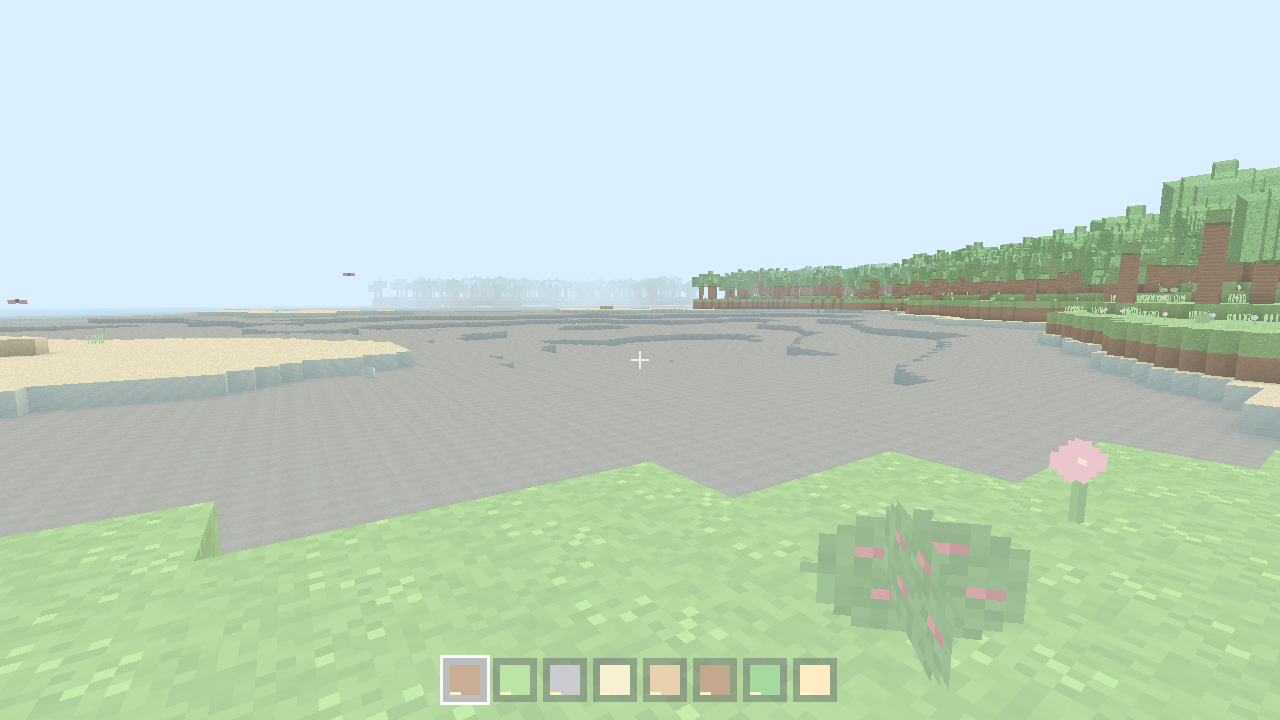
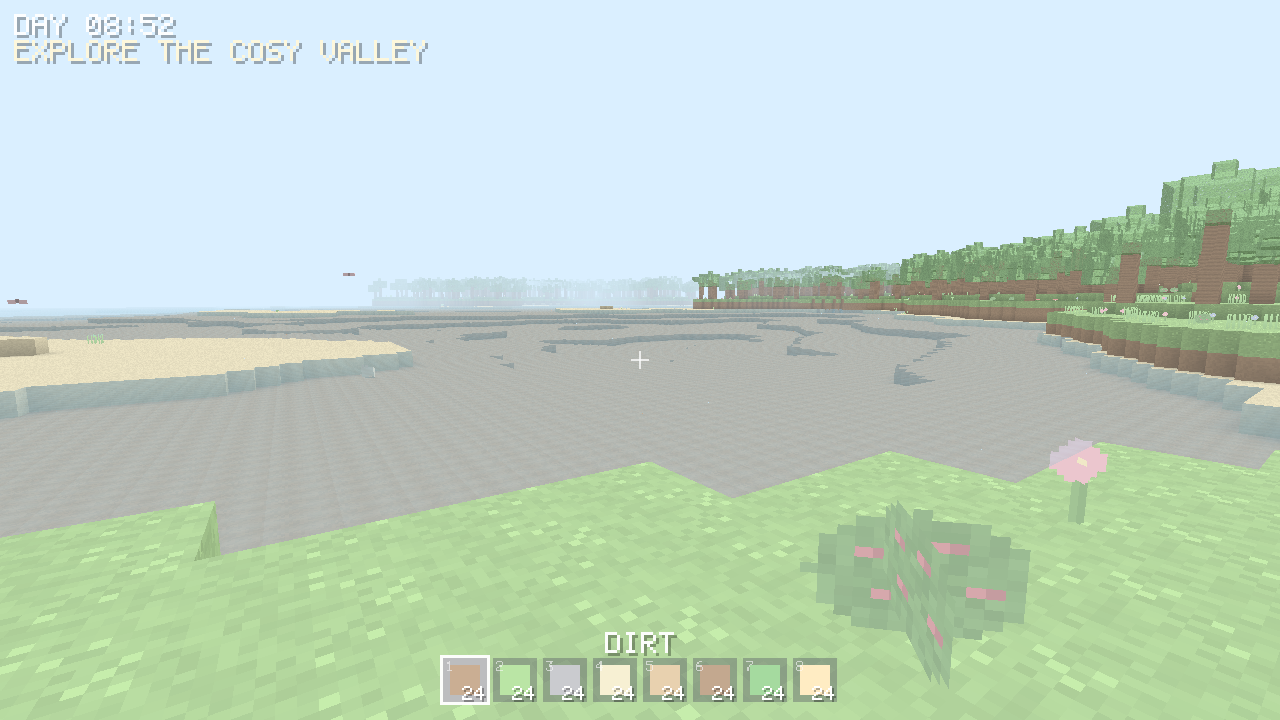
Stage 12: bitmap font + HUD text
- Compact 5x7 bitmap font (A-Z, 0-9, punctuation) rendered as UI quads with a
  drop-shadow for legibility.
- HUD now shows a day/night clock, an objective banner, the selected block name
  above the hotbar, per-slot held counts and slot-number hints, via a HudState
  struct passed to the renderer. Wired through window + screenshot paths.

diff --git a/crates/game/src/render/ui.rs b/crates/game/src/render/ui.rs
@@ -42,17 +42,55 @@ impl UiBuilder {
             self.verts.push(UiVertex { pos: p, color });
         }
     }
+
+    /// Draw `text` with the bitmap font; top-left at (x,y), one source pixel =
+    /// `scale` screen pixels.
+    fn text(&mut self, x: f32, y: f32, scale: f32, text: &str, color: [f32; 4]) {
+        let mut cx = x;
+        for ch in text.chars() {
+            if let Some(bits) = super::font::glyph(ch) {
+                for (row, bitmask) in bits.iter().enumerate() {
+                    for col in 0..super::font::GLYPH_W {
+                        if bitmask & (1 << (super::font::GLYPH_W - 1 - col)) != 0 {
+                            self.rect(
+                                cx + col as f32 * scale,
+                                y + row as f32 * scale,
+                                scale,
+                                scale,
+                                color,
+                            );
+                        }
+                    }
+                }
+            }
+            cx += (super::font::GLYPH_W as f32 + 1.0) * scale;
+        }
+    }
+
+    /// Draw text with a 1px dark drop-shadow for legibility over any backdrop.
+    fn text_shadow(&mut self, x: f32, y: f32, scale: f32, s: &str, color: [f32; 4]) {
+        self.text(x + scale, y + scale, scale, s, [0.0, 0.0, 0.0, 0.55]);
+        self.text(x, y, scale, s, color);
+    }
+}
+
+/// Everything the HUD needs for a frame.
+pub struct HudState<'a> {
+    pub inventory: &'a Inventory,
+    pub registry: &'a BlockRegistry,
+    /// Time of day in `[0,1)` (0 = dawn, 0.25 = noon).
+    pub time_of_day: f32,
+    /// Optional quest objective line and its progress (done, total).
+    pub objective: Option<String>,
+    pub objective_progress: Option<(u32, u32)>,
 }
 
 /// Build the full HUD for the current frame.
-pub fn build_hud(
-    screen_w: u32,
-    screen_h: u32,
-    inventory: &Inventory,
-    registry: &BlockRegistry,
-) -> Vec<UiVertex> {
+pub fn build_hud(screen_w: u32, screen_h: u32, state: &HudState) -> Vec<UiVertex> {
     let mut b = UiBuilder::new(screen_w, screen_h);
     let (w, h) = (b.w, b.h);
+    let inventory = state.inventory;
+    let registry = state.registry;
 
     // --- Crosshair: a soft white plus at the screen centre ---------------
     let cx = w * 0.5;
@@ -62,6 +100,25 @@ pub fn build_hud(
     let cross = [1.0, 1.0, 1.0, 0.7];
     b.rect(cx - arm, cy - thick * 0.5, arm * 2.0, thick, cross);
     b.rect(cx - thick * 0.5, cy - arm, thick, arm * 2.0, cross);
+
+    // --- Top-left clock --------------------------------------------------
+    // Map the cycle to a friendly 24h clock (dawn ≈ 06:00, noon = 12:00).
+    let hours_f = (state.time_of_day * 24.0 + 6.0) % 24.0;
+    let hh = hours_f as u32;
+    let mm = ((hours_f - hh as f32) * 60.0) as u32;
+    let clock = format!("{hh:02}:{mm:02}");
+    let tag = if (6..20).contains(&hh) { "DAY" } else { "NIGHT" };
+    b.text_shadow(14.0, 14.0, 3.0, &format!("{tag} {clock}"), [1.0, 1.0, 1.0, 0.95]);
+
+    // --- Objective banner ------------------------------------------------
+    if let Some(obj) = &state.objective {
+        let line = if let Some((done, total)) = state.objective_progress {
+            format!("{obj}  {done}/{total}")
+        } else {
+            obj.clone()
+        };
+        b.text_shadow(14.0, 40.0, 3.0, &line, [1.0, 0.93, 0.7, 0.95]);
+    }
 
     // --- Hotbar: a centred row of slots near the bottom ------------------
     let slots = HOTBAR.len();
@@ -75,7 +132,6 @@ pub fn build_hud(
         let sx = start_x + i as f32 * (slot + gap);
         let selected = i == inventory.selected;
 
-        // Slot backing (selected slot gets a bright frame).
         if selected {
             b.rect(sx - 3.0, y - 3.0, slot + 6.0, slot + 6.0, [1.0, 1.0, 1.0, 0.95]);
         }
@@ -83,29 +139,27 @@ pub fn build_hud(
 
         // Block colour swatch inset in the slot.
         let c = registry.get(id).color;
-        let swatch = [
-            c.r as f32 / 255.0,
-            c.g as f32 / 255.0,
-            c.b as f32 / 255.0,
-            1.0,
-        ];
+        let swatch = [c.r as f32 / 255.0, c.g as f32 / 255.0, c.b as f32 / 255.0, 1.0];
         let pad = 7.0;
         b.rect(sx + pad, y + pad, slot - pad * 2.0, slot - pad * 2.0, swatch);
 
-        // Count pips: a tiny bar whose width reflects how many are held
-        // (cheap stand-in for a number until text rendering lands).
-        let count = inventory.count(id).min(64);
+        // Held count, bottom-right of the slot.
+        let count = inventory.count(id);
         if count > 0 {
-            let frac = count as f32 / 64.0;
-            b.rect(
-                sx + pad,
-                y + slot - pad - 3.0,
-                (slot - pad * 2.0) * frac,
-                3.0,
-                [1.0, 0.95, 0.6, 0.9],
-            );
+            let s = count.to_string();
+            let scale = 2.0;
+            let tw = super::font::text_width(&s, scale);
+            b.text_shadow(sx + slot - tw - 3.0, y + slot - 7.0 * scale - 2.0, scale, &s, [1.0; 4]);
         }
+        // Slot number key hint, top-left.
+        b.text(sx + 3.0, y + 3.0, 1.5, &(i + 1).to_string(), [1.0, 1.0, 1.0, 0.5]);
     }
+
+    // --- Selected block name, centred above the hotbar -------------------
+    let name = registry.get(inventory.selected_block()).name.replace('_', " ");
+    let scale = 3.0;
+    let tw = super::font::text_width(&name, scale);
+    b.text_shadow((w - tw) * 0.5, y - 26.0, scale, &name, [1.0, 1.0, 1.0, 0.95]);
 
     b.verts
 }
@@ -120,7 +174,14 @@ mod tests {
         let mut inv = Inventory::new(reg.len());
         inv.add(HOTBAR[0], 32);
         inv.select(2);
-        let verts = build_hud(1280, 720, &inv, &reg);
+        let state = HudState {
+            inventory: &inv,
+            registry: &reg,
+            time_of_day: 0.25,
+            objective: Some("COLLECT BERRIES".to_string()),
+            objective_progress: Some((2, 5)),
+        };
+        let verts = build_hud(1280, 720, &state);
         assert!(!verts.is_empty());
         assert_eq!(verts.len() % 6, 0, "quads must be 2 triangles (6 verts) each");
         // All NDC positions stay within the clip volume.

diff --git a/crates/game/src/render/font.rs b/crates/game/src/render/font.rs
@@ -1,0 +1,74 @@
+//! A tiny 5×7 bitmap font rendered as solid UI quads. Enough for HUD counts,
+//! a clock, block names and quest objectives. Each glyph is seven rows; the low
+//! five bits of each row are the pixels (bit 4 = leftmost).
+
+/// Glyph width/height in source pixels.
+pub const GLYPH_W: u32 = 5;
+pub const GLYPH_H: u32 = 7;
+
+/// Look up a glyph bitmap for a character (uppercased). Returns `None` for
+/// unknown characters (caller renders a blank advance).
+pub fn glyph(ch: char) -> Option<[u8; 7]> {
+    let c = ch.to_ascii_uppercase();
+    Some(match c {
+        ' ' => [0; 7],
+        'A' => [0b01110, 0b10001, 0b10001, 0b11111, 0b10001, 0b10001, 0b10001],
+        'B' => [0b11110, 0b10001, 0b11110, 0b10001, 0b10001, 0b10001, 0b11110],
+        'C' => [0b01110, 0b10001, 0b10000, 0b10000, 0b10000, 0b10001, 0b01110],
+        'D' => [0b11110, 0b10001, 0b10001, 0b10001, 0b10001, 0b10001, 0b11110],
+        'E' => [0b11111, 0b10000, 0b11110, 0b10000, 0b10000, 0b10000, 0b11111],
+        'F' => [0b11111, 0b10000, 0b11110, 0b10000, 0b10000, 0b10000, 0b10000],
+        'G' => [0b01110, 0b10001, 0b10000, 0b10111, 0b10001, 0b10001, 0b01110],
+        'H' => [0b10001, 0b10001, 0b11111, 0b10001, 0b10001, 0b10001, 0b10001],
+        'I' => [0b01110, 0b00100, 0b00100, 0b00100, 0b00100, 0b00100, 0b01110],
+        'J' => [0b00111, 0b00010, 0b00010, 0b00010, 0b10010, 0b10010, 0b01100],
+        'K' => [0b10001, 0b10010, 0b10100, 0b11000, 0b10100, 0b10010, 0b10001],
+        'L' => [0b10000, 0b10000, 0b10000, 0b10000, 0b10000, 0b10000, 0b11111],
+        'M' => [0b10001, 0b11011, 0b10101, 0b10101, 0b10001, 0b10001, 0b10001],
+        'N' => [0b10001, 0b11001, 0b10101, 0b10011, 0b10001, 0b10001, 0b10001],
+        'O' => [0b01110, 0b10001, 0b10001, 0b10001, 0b10001, 0b10001, 0b01110],
+        'P' => [0b11110, 0b10001, 0b10001, 0b11110, 0b10000, 0b10000, 0b10000],
+        'Q' => [0b01110, 0b10001, 0b10001, 0b10001, 0b10101, 0b10010, 0b01101],
+        'R' => [0b11110, 0b10001, 0b10001, 0b11110, 0b10100, 0b10010, 0b10001],
+        'S' => [0b01111, 0b10000, 0b10000, 0b01110, 0b00001, 0b00001, 0b11110],
+        'T' => [0b11111, 0b00100, 0b00100, 0b00100, 0b00100, 0b00100, 0b00100],
+        'U' => [0b10001, 0b10001, 0b10001, 0b10001, 0b10001, 0b10001, 0b01110],
+        'V' => [0b10001, 0b10001, 0b10001, 0b10001, 0b10001, 0b01010, 0b00100],
+        'W' => [0b10001, 0b10001, 0b10001, 0b10101, 0b10101, 0b11011, 0b10001],
+        'X' => [0b10001, 0b10001, 0b01010, 0b00100, 0b01010, 0b10001, 0b10001],
+        'Y' => [0b10001, 0b10001, 0b01010, 0b00100, 0b00100, 0b00100, 0b00100],
+        'Z' => [0b11111, 0b00001, 0b00010, 0b00100, 0b01000, 0b10000, 0b11111],
+        '0' => [0b01110, 0b10011, 0b10101, 0b10101, 0b11001, 0b10001, 0b01110],
+        '1' => [0b00100, 0b01100, 0b00100, 0b00100, 0b00100, 0b00100, 0b01110],
+        '2' => [0b01110, 0b10001, 0b00001, 0b00110, 0b01000, 0b10000, 0b11111],
+        '3' => [0b11111, 0b00010, 0b00100, 0b00110, 0b00001, 0b10001, 0b01110],
+        '4' => [0b00010, 0b00110, 0b01010, 0b10010, 0b11111, 0b00010, 0b00010],
+        '5' => [0b11111, 0b10000, 0b11110, 0b00001, 0b00001, 0b10001, 0b01110],
+        '6' => [0b00110, 0b01000, 0b10000, 0b11110, 0b10001, 0b10001, 0b01110],
+        '7' => [0b11111, 0b00001, 0b00010, 0b00100, 0b01000, 0b01000, 0b01000],
+        '8' => [0b01110, 0b10001, 0b10001, 0b01110, 0b10001, 0b10001, 0b01110],
+        '9' => [0b01110, 0b10001, 0b10001, 0b01111, 0b00001, 0b00010, 0b01100],
+        ':' => [0b00000, 0b00100, 0b00100, 0b00000, 0b00100, 0b00100, 0b00000],
+        '.' => [0b00000, 0b00000, 0b00000, 0b00000, 0b00000, 0b00110, 0b00110],
+        ',' => [0b00000, 0b00000, 0b00000, 0b00000, 0b00110, 0b00110, 0b01000],
+        '/' => [0b00001, 0b00010, 0b00100, 0b00100, 0b01000, 0b10000, 0b10000],
+        '-' => [0b00000, 0b00000, 0b00000, 0b11111, 0b00000, 0b00000, 0b00000],
+        '!' => [0b00100, 0b00100, 0b00100, 0b00100, 0b00100, 0b00000, 0b00100],
+        '?' => [0b01110, 0b10001, 0b00010, 0b00100, 0b00100, 0b00000, 0b00100],
+        '%' => [0b11001, 0b11010, 0b00100, 0b01000, 0b10110, 0b10011, 0b00000],
+        '+' => [0b00000, 0b00100, 0b00100, 0b11111, 0b00100, 0b00100, 0b00000],
+        '*' => [0b00000, 0b10101, 0b01110, 0b11111, 0b01110, 0b10101, 0b00000],
+        _ => return None,
+    })
+}
+
+/// Pixel width of `text` at the given pixel scale (1 source px → `scale` px),
+/// including 1-pixel inter-glyph spacing.
+pub fn text_width(text: &str, scale: f32) -> f32 {
+    let glyphs = text.chars().count() as f32;
+    if glyphs == 0.0 {
+        0.0
+    } else {
+        (glyphs * (GLYPH_W as f32 + 1.0) - 1.0) * scale
+    }
+}

diff --git a/crates/game/src/render/app.rs b/crates/game/src/render/app.rs
@@ -229,8 +229,14 @@ impl State {
         // Push fresh/edited chunk meshes and the ambient critters to the GPU.
         self.renderer.sync_meshes(&self.game.manager);
         self.renderer.update_entities(&self.game.entities);
-        self.renderer
-            .update_hud(&self.game.inventory, &self.game.manager.registry);
+        let hud = super::HudState {
+            inventory: &self.game.inventory,
+            registry: &self.game.manager.registry,
+            time_of_day: self.game.environment.time_of_day,
+            objective: None,
+            objective_progress: None,
+        };
+        self.renderer.update_hud(&hud);
 
         // Camera follows the eye.
         let camera = Camera::new(eye, look, self.renderer.aspect());

diff --git a/crates/game/src/render/window.rs b/crates/game/src/render/window.rs
@@ -87,13 +87,9 @@ impl Renderer {
         self.scene.upload_entities(&v, &i);
     }
 
-    /// Rebuild the HUD overlay (crosshair + hotbar) for the current inventory.
-    pub fn update_hud(
-        &mut self,
-        inventory: &crate::inventory::Inventory,
-        registry: &pixelcraft_core::block::BlockRegistry,
-    ) {
-        let verts = super::ui::build_hud(self.config.width, self.config.height, inventory, registry);
+    /// Rebuild the HUD overlay for the current frame.
+    pub fn update_hud(&mut self, state: &super::ui::HudState) {
+        let verts = super::ui::build_hud(self.config.width, self.config.height, state);
         self.scene.upload_ui(&verts);
     }
 

diff --git a/crates/game/src/render/capture.rs b/crates/game/src/render/capture.rs
@@ -100,13 +100,9 @@ impl Headless {
         self.scene.upload_entities(&v, &i);
     }
 
-    /// Rebuild the HUD overlay (crosshair + hotbar) for the current inventory.
-    pub fn update_hud(
-        &mut self,
-        inventory: &crate::inventory::Inventory,
-        registry: &pixelcraft_core::block::BlockRegistry,
-    ) {
-        let verts = super::ui::build_hud(self.width, self.height, inventory, registry);
+    /// Rebuild the HUD overlay for the current frame.
+    pub fn update_hud(&mut self, state: &super::ui::HudState) {
+        let verts = super::ui::build_hud(self.width, self.height, state);
         self.scene.upload_ui(&verts);
     }
 

diff --git a/crates/game/src/bin/screenshot.rs b/crates/game/src/bin/screenshot.rs
@@ -74,7 +74,14 @@ fn main() {
     renderer.set_render_distance(render_distance);
     renderer.sync_meshes(&game.manager);
     renderer.update_entities(&game.entities);
-    renderer.update_hud(&game.inventory, &game.manager.registry);
+    let hud = pixelcraft_game::render::HudState {
+        inventory: &game.inventory,
+        registry: &game.manager.registry,
+        time_of_day: 0.12,
+        objective: Some("EXPLORE THE COSY VALLEY".to_string()),
+        objective_progress: None,
+    };
+    renderer.update_hud(&hud);
     println!(
         "GPU chunk meshes: {} | critters: {}",
         renderer.gpu_chunk_count(),

diff --git a/crates/game/src/render/mod.rs b/crates/game/src/render/mod.rs
@@ -6,10 +6,12 @@
 //! * The headless capturer (`capture` feature) renders offscreen to a PNG,
 //!   used to screenshot the game in environments without a display.
 
+mod font;
 mod scene;
 mod textures;
 mod ui;
 pub use scene::CHUNK_EDGE;
+pub use ui::HudState;
 
 #[cfg(feature = "render")]
 mod app;
